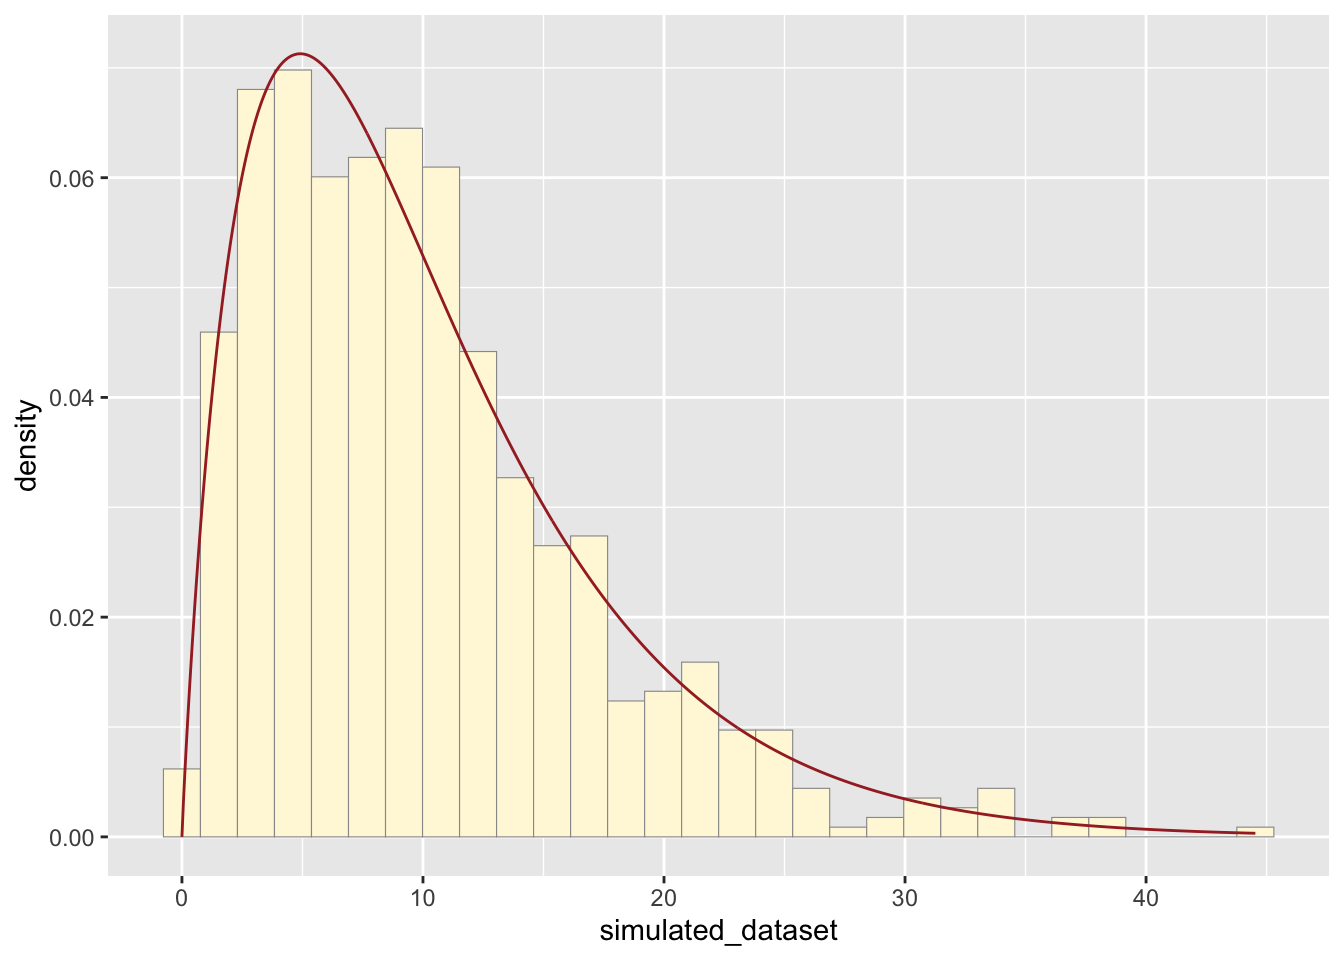
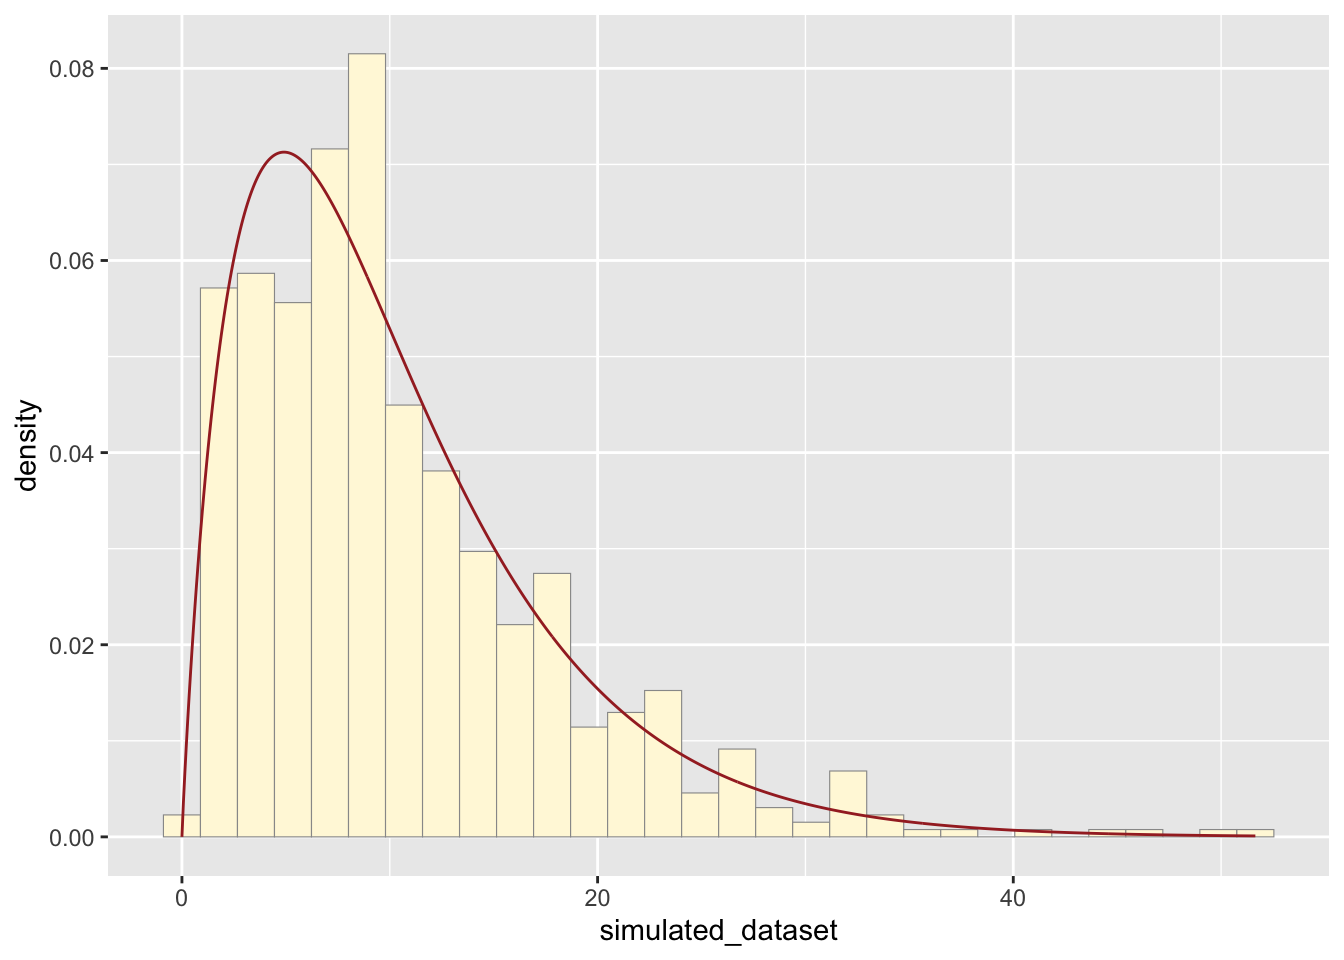
homework 8, last time I upload this

diff --git a/docs/homework8.html b/docs/homework8.html
@@ -280,11 +280,6 @@ State of New York. For context, HABs/habs = Harmful Algal Blooms</p>
 <p>Importing necessary libraries:</p>
 <pre class="r"><code>library(ggplot2)
 library(MASS)</code></pre>
-<pre><code>## 
-## Attaching package: &#39;MASS&#39;</code></pre>
-<pre><code>## The following object is masked from &#39;package:dplyr&#39;:
-## 
-##     select</code></pre>
 <p>Importing dataset:</p>
 <pre class="r"><code>habs &lt;- read.table(&quot;HABs_2012-2018.csv&quot;, header=TRUE,sep=&quot;,&quot;)</code></pre>
 <p>Cleaning up data and assigning variable of interest:</p>
@@ -303,12 +298,14 @@ List:</p>
 <pre><code>## Warning: Using `size` aesthetic for lines was deprecated in ggplot2 3.4.0.
 ## ℹ Please use `linewidth` instead.
 ## This warning is displayed once every 8 hours.
-## Call `lifecycle::last_lifecycle_warnings()` to see where this warning was generated.</code></pre>
+## Call `lifecycle::last_lifecycle_warnings()` to see where this warning was
+## generated.</code></pre>
 <pre class="r"><code>print(p1)</code></pre>
 <pre><code>## Warning: The dot-dot notation (`..density..`) was deprecated in ggplot2 3.4.0.
 ## ℹ Please use `after_stat(density)` instead.
 ## This warning is displayed once every 8 hours.
-## Call `lifecycle::last_lifecycle_warnings()` to see where this warning was generated.</code></pre>
+## Call `lifecycle::last_lifecycle_warnings()` to see where this warning was
+## generated.</code></pre>
 <pre><code>## `stat_bin()` using `bins = 30`. Pick better value with `binwidth`.</code></pre>
 <p><img src="homework8_files/figure-html/unnamed-chunk-5-1.png" width="672" /></p>
 <p>Adding empirical density curve:</p>
@@ -355,8 +352,8 @@ rateML &lt;- expoPars$estimate[&quot;rate&quot;]
 stat2 &lt;- stat_function(aes(x = xval, y = ..y..), fun = dexp, colour=&quot;blue&quot;, n = length(habs$myVar), args = list(rate=rateML))
  p1 + stat + stat2</code></pre>
 <pre><code>## `stat_bin()` using `bins = 30`. Pick better value with `binwidth`.</code></pre>
-<p><img src="homework8_files/figure-html/unnamed-chunk-9-1.png" width="672" />
-Plotting uniform probability density on the histogram:</p>
+<p><img src="homework8_files/figure-html/unnamed-chunk-9-1.png" width="672" /></p>
+<p>Plotting uniform probability density on the histogram:</p>
 <pre class="r"><code>stat3 &lt;- stat_function(aes(x = xval, y = ..y..), fun = dunif, colour=&quot;darkgreen&quot;, n = length(habs$myVar), args = list(min=min(habs$myVar), max=max(habs$myVar)))
  p1 + stat + stat2 + stat3</code></pre>
 <pre><code>## `stat_bin()` using `bins = 30`. Pick better value with `binwidth`.</code></pre>
@@ -388,8 +385,8 @@ shape2ML &lt;- betaPars$estimate[&quot;shape2&quot;]
 statSpecial &lt;- stat_function(aes(x = xval, y = ..y..), fun = dbeta, colour=&quot;orchid&quot;, n = length(habs$myVar), args = list(shape1=shape1ML,shape2=shape2ML))
 pSpecial + statSpecial</code></pre>
 <pre><code>## `stat_bin()` using `bins = 30`. Pick better value with `binwidth`.</code></pre>
-<pre><code>## Warning: Removed 2 rows containing missing values or values outside the scale
-## range (`geom_bar()`).</code></pre>
+<pre><code>## Warning: Removed 2 rows containing missing values or values outside the scale range
+## (`geom_bar()`).</code></pre>
 <p><img src="homework8_files/figure-html/unnamed-chunk-12-1.png" width="672" /></p>
 <p><u>Simulated New Dataset</u></p>
 <p>Creating a simulated dataset based on gamma probability density. Here
@@ -400,10 +397,10 @@ simulated_z &lt;- 1:length(habs$myVar)
 simulated_df &lt;- data.frame(simulated_dataset,simulated_z)</code></pre>
 <p>Summary of simulated dataset:</p>
 <pre class="r"><code>str(simulated_dataset)</code></pre>
-<pre><code>##  num [1:737] 24 5.48 8.32 6.26 7.95 ...</code></pre>
+<pre><code>##  num [1:737] 7.36 2.28 8.34 10.6 31.45 ...</code></pre>
 <pre class="r"><code>summary(simulated_dataset)</code></pre>
 <pre><code>##    Min. 1st Qu.  Median    Mean 3rd Qu.    Max. 
-##  0.1538  4.7576  8.6109 10.0549 13.4146 44.5347</code></pre>
+##  0.1551  4.9897  8.7548 10.5851 13.9023 51.6479</code></pre>
 <p>Plotting the histogram based on gamma probability density, which
 appears to best fit the data compared to normal, exponential, uniform,
 and beta probability.</p>
